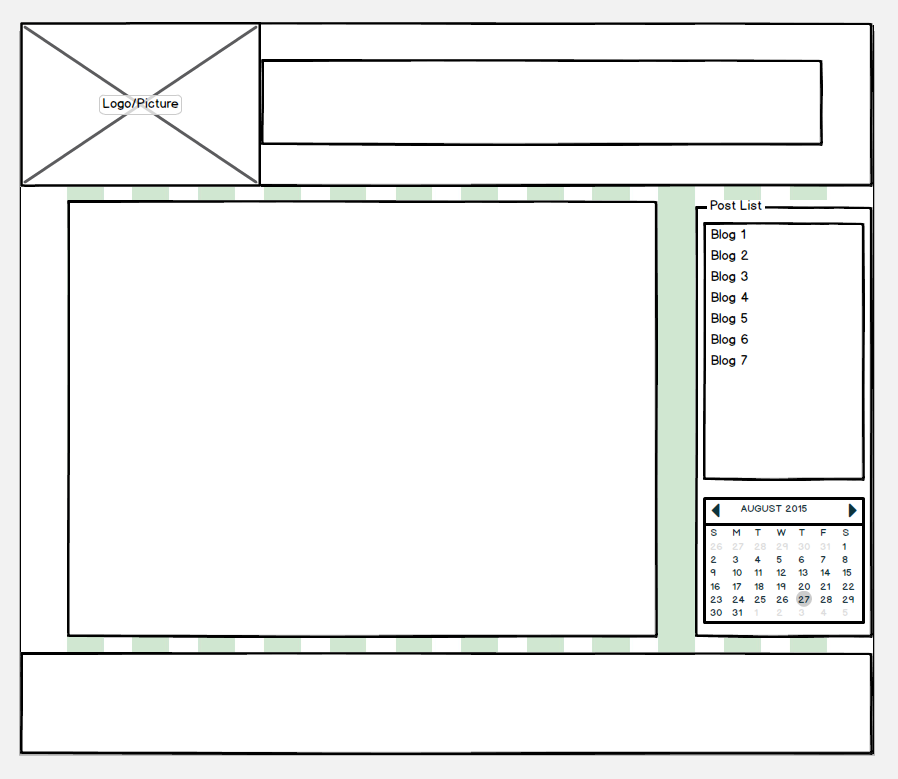
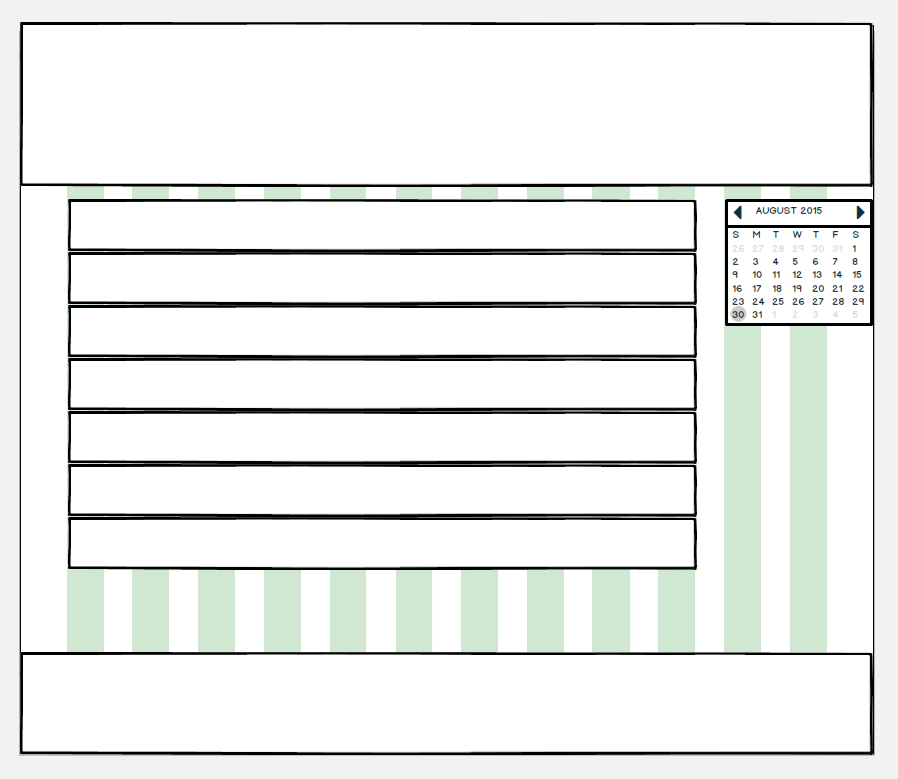
Update index.html and blog/index.html with html skeleton

diff --git a/index.html b/index.html
@@ -1,5 +1,57 @@
+<!DOCTYPE HTML>
 <html>
-  <body>
-    Hello DBC!
-  </body>
+<head>
+  <title>DBC in NYC</title>
+</head>
+<body>
+  <header>
+    <h1>DBC in NYC</h1>
+    <h3>a snapshot for first time NYC visitor and dreamer</h3>
+  </header>
+
+  <img src="#"/>
+
+  <nav>
+    <a href="#">Projects</a> |
+    <a href="./blog/index.html">Blog</a> |
+    <a href="#">About Me</a> |
+    <a href="#">Contact</a> |
+    <a href="#">Resume</a> |
+  </nav>
+
+  <hr>
+
+  <section>
+    <h2>Welcome to DBC in NYC</h2>
+    <p>Are coming to NYC to pursue a dream? Are you a first time NYC vistor? If so, this is the right place for you. (To be continued...)</p>
+  </section>
+
+  <section>
+    <h3>DBC Insight</h3>
+    <p>(Brief Intro)</p>
+  </section>
+
+  <section>
+    <h3>NYC 101</h3>
+    <p>(Brief Intro)</p>
+  </section>
+
+  <section>
+    <h3>Life in NYC</h3>
+    <p>(Brief Intro)</p>
+  </section>
+
+  <footer>
+    <nav>
+      <a href="#">Twitter</a>
+      <a href="#">Facebook</a>
+      <a href="#">Linkin</a>
+      <a href="#">GitHub</a>
+    </nav>
+  </footer>
+</body>
 </html>
+
+<!--
+  So far only the "Blog" link works
+  -->

diff --git a/blog/index.html b/blog/index.html
@@ -1,23 +1,28 @@
 <!Doctype html>
 <html>
 <head>
-
+  <TITLE>Nathan's Blog</TITLE>
 </head>
 <body>
   <h1>Nathan's Blog</h1>
-  <ul>
-    <li><a href="#">blog 1</a></li>
-    <li><a href="#">blog 1</a></li>
-    <li><a href="#">blog 1</a></li>
-    <li><a href="#">blog 1</a></li>
-    <li><a href="#">blog 1</a></li>
-    <li><a href="#">blog 1</a></li>
-    <li><a href="#">blog 1</a></li>
-  </ul>
+  <table>
+    <tr><td><a href="#">blog 1</a></td></tr>
+    <tr><td><a href="#">blog 2</a></td></tr>
+    <tr><td><a href="#">blog 3</a></td></tr>
+    <tr><td><a href="#">blog 4</a></td></tr>
+    <tr><td><a href="#">blog 5</a></td></tr>
+    <tr><td><a href="#">blog 6</a></td></tr>
+    <tr><td><a href="#">blog 7</a></td></tr>
+  </table>
 
-  <h2>blog 1</h2>
-  <p>
+  <table>
+    <tr><td><a href="#">August 2015</a></td></tr>
+    <tr><td><a href="#">September 2015</a></td></tr>
+    <tr><td><a href="#">October 2015</a></td></tr>
+    <tr><td><a href="#">November 2015</a></td></tr>
+    <tr><td><a href="#">December 2015</a></td></tr>
+    <tr><td><a href="#">January 2016</a></td></tr>
+  </table>
 
-  </p>
 </body>
 </html>
